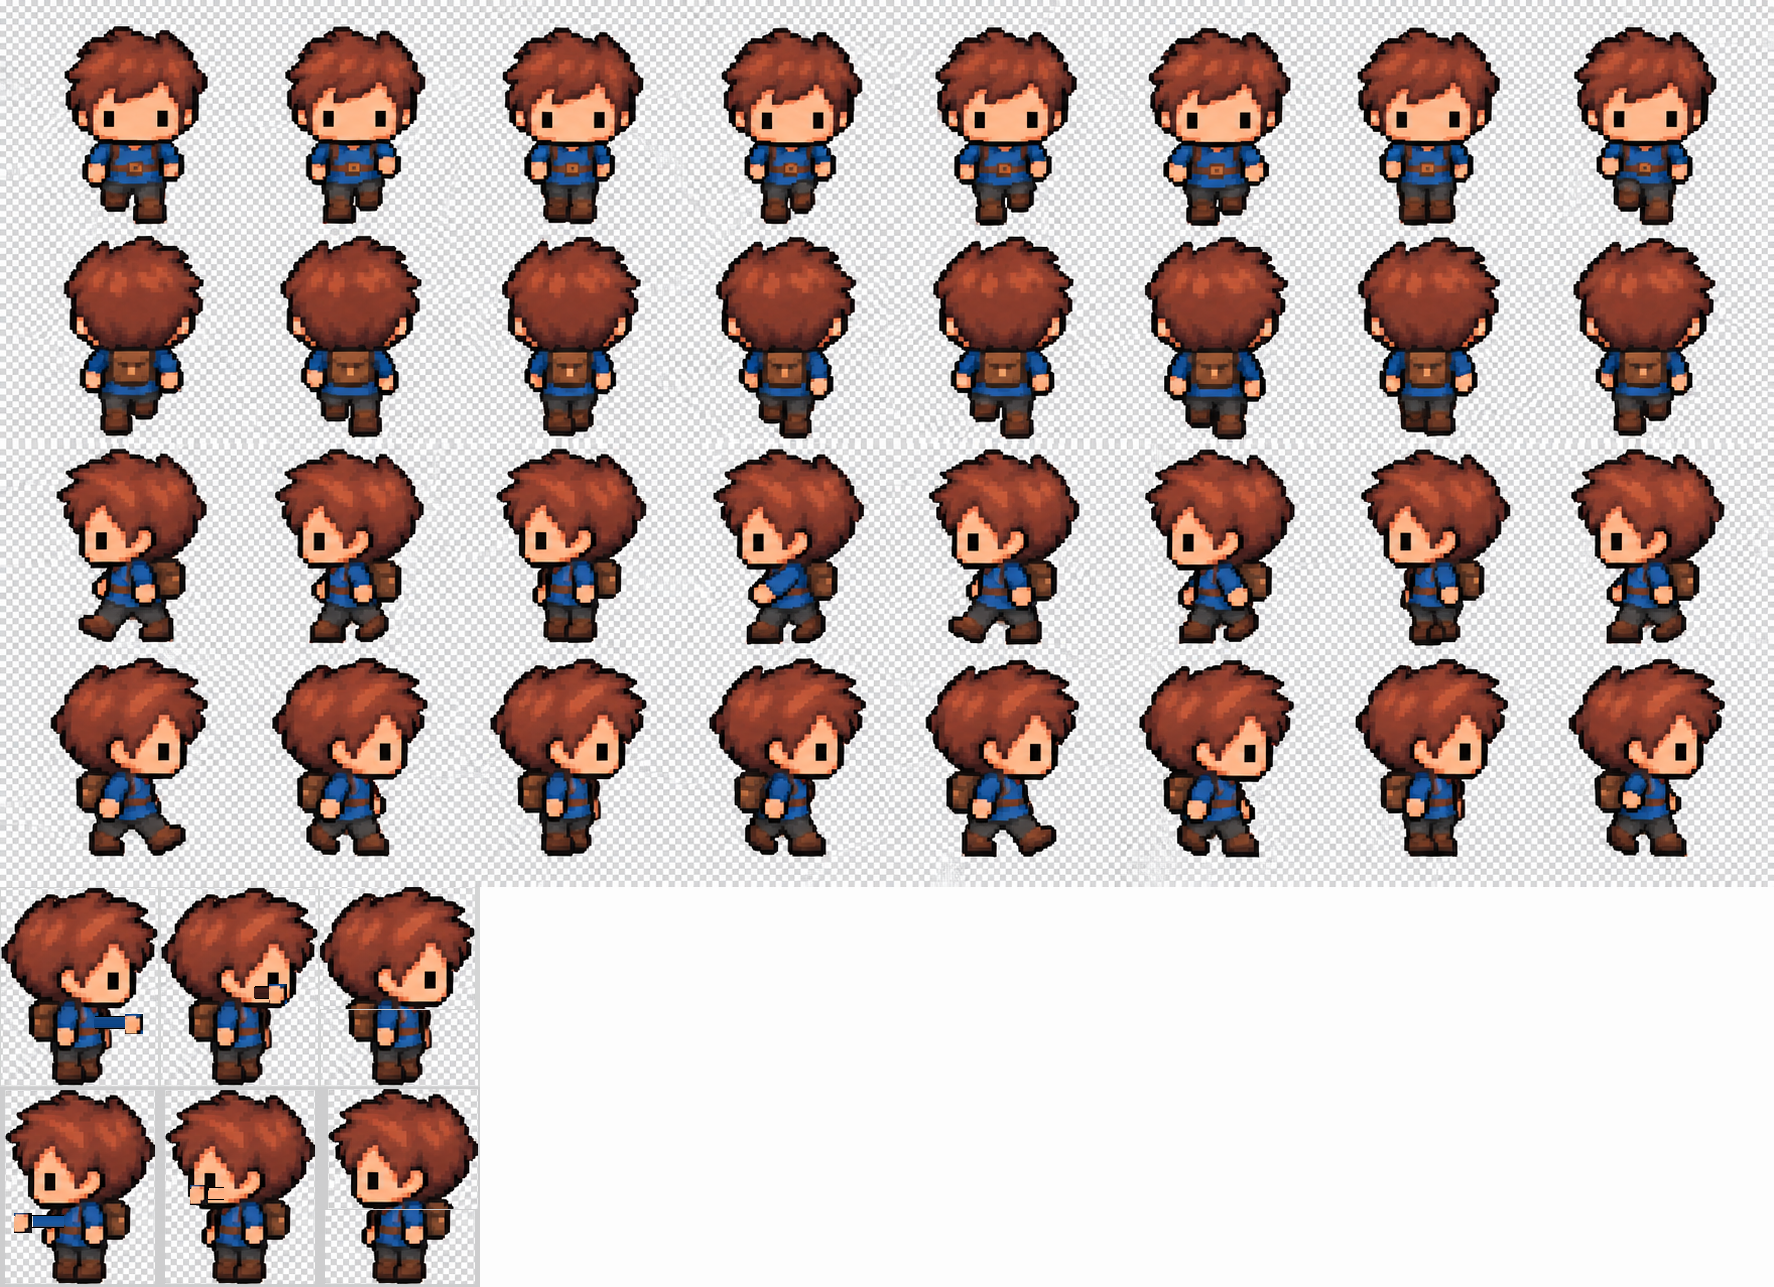
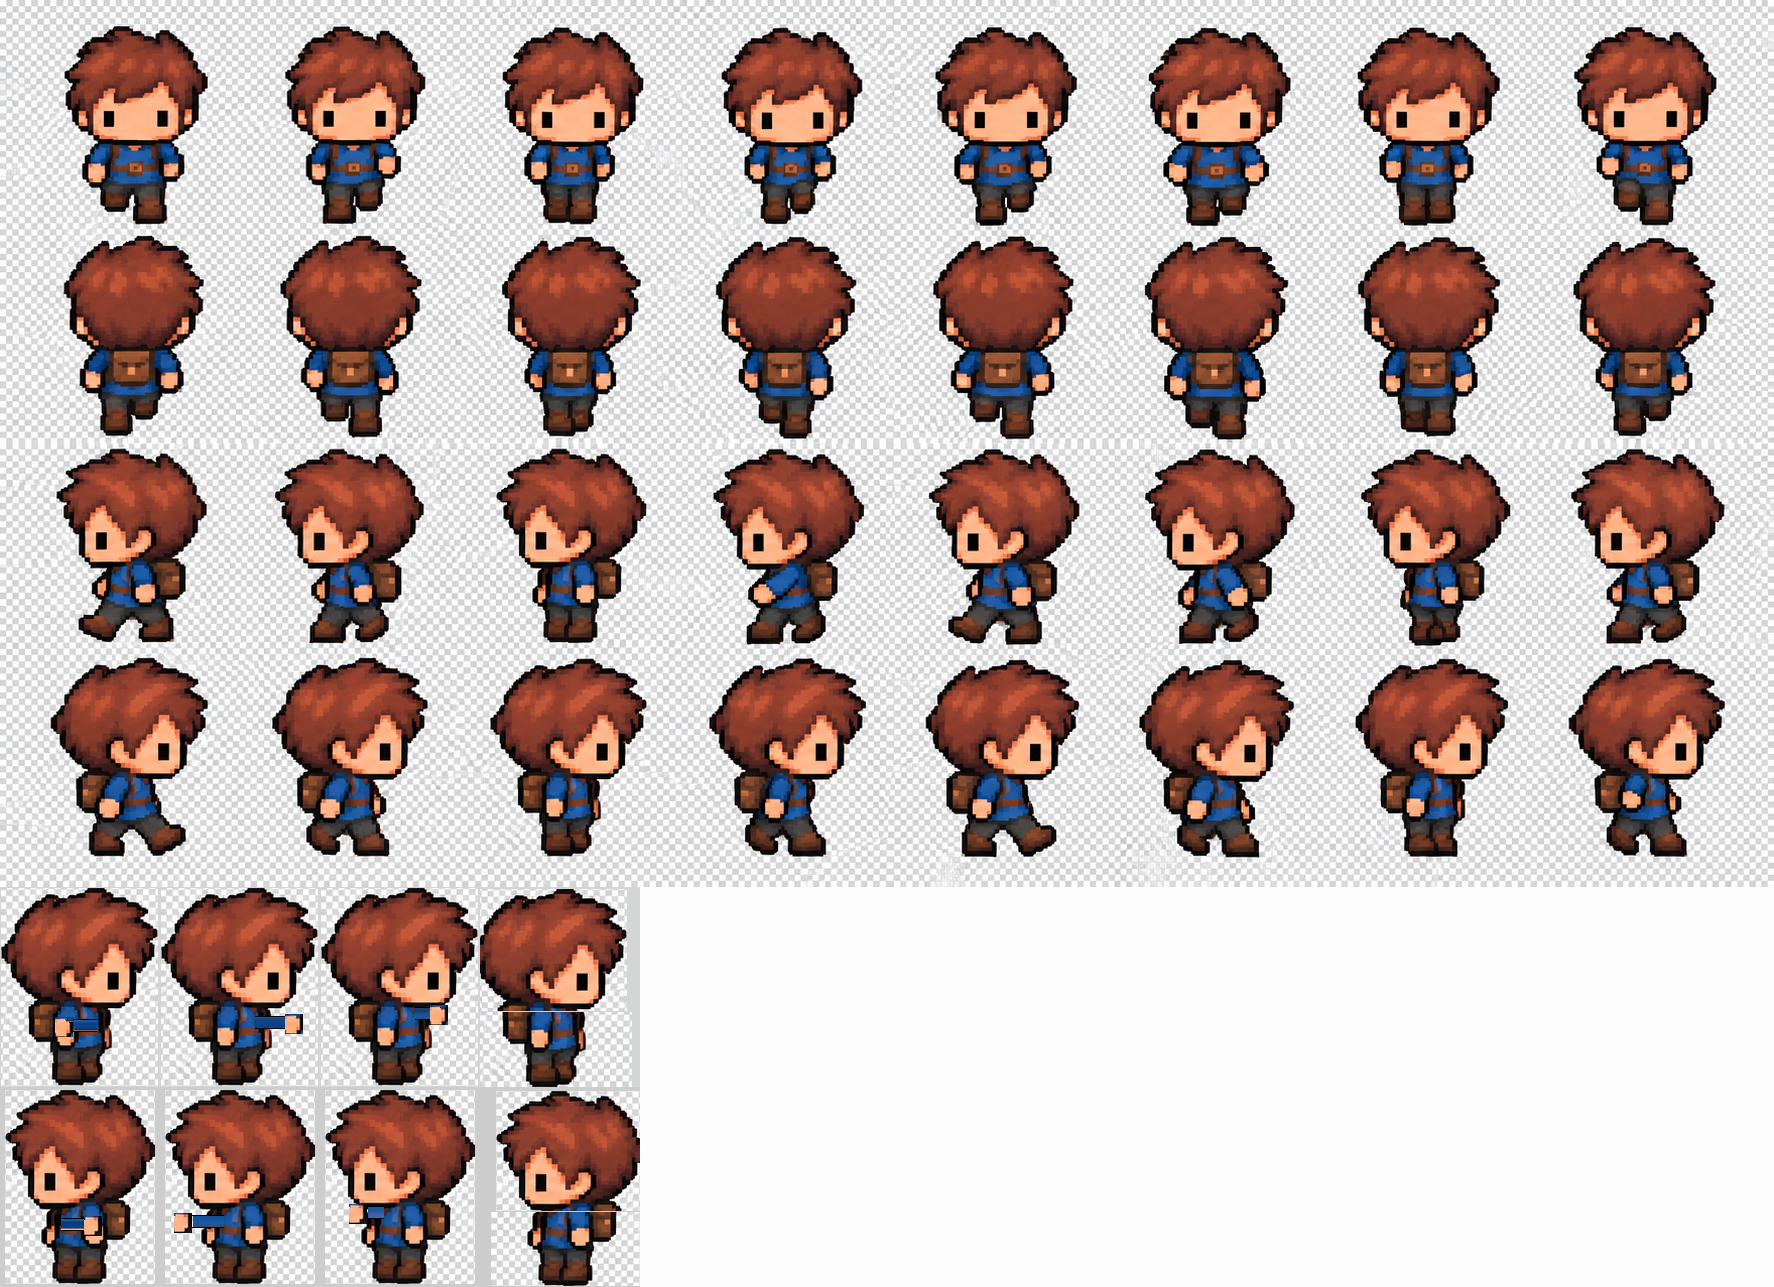
A second pass on the fight frames: the wind-up now has a drawing
Yannick played it and said the animations were very slight. He was right, and the
reason was structural: the wind-up had no drawn pose at all. Twenty-eight frames of
a blow arriving showed nothing but a lean, and the drawn frame only appeared on the
frame the blow landed - by which point there is nothing left to read.

  ready   the arm drawn back across the chest. New, and the one that was missing
  attack  the arm out, as before
  guard   short, forward, a little above the punch line
  hurt    the whole of him knocked back six and down two, head eleven further

WHAT TWO WASTED PASSES TAUGHT, written into the tool so nobody repeats them: his
hair takes the top three fifths of the frame. Anything drawn at head height is lost
behind it or smeared across his face - a guard under the chin put a dark blob over
his eye, and a fist cocked at shoulder height disappeared behind his own backpack.
The clear ground is the chest, so the three arms differ by how far they go and which
way, never by height. That note is in POUR_SLOSINIO too, because it will save his
brother the same discovery.

The flinch was invisible at playing size - it moved only the head three pixels. It
now moves all of him, and his head further than his feet, which is a body folding
round a blow rather than a man with a crooked neck.

Both full suites green on both worlds.

diff --git a/docs/POUR_SLOSINIO.md b/docs/POUR_SLOSINIO.md
@@ -239,8 +239,13 @@ Ce qu'on a fait, exactement :
   les tiennes, on supprime l'outil et le fichier, et un test nous force la main : il
   échoue dès que ta planche gagne une neuvième animation.
 
-C'est grossier. Un bras bleu tendu avec un poing au bout, un poing levé au menton, une
-tête qui recule. Ça se lit en jeu, et ce n'est pas mieux que ça.
+C'est grossier, et Yannick l'a dit après avoir joué. On a fait une deuxième passe : il y
+a maintenant **quatre** poses, parce que la préparation du coup n'en avait aucune — le
+bras se ramène, puis il part. Ça se lit en jeu. Ce n'est pas mieux que ça.
+
+Une chose qu'on a apprise en s'y cassant les dents, et qui te servira : **ta chevelure
+prend les trois cinquièmes du haut du sprite.** Tout bras dessiné à hauteur de tête s'y
+perd ou barbouille le visage. La seule bande dégagée est la poitrine.
 
 **Ce qui remplacerait ça, c'est trois images :**
 

diff --git a/CLAUDE.md b/CLAUDE.md
@@ -83,8 +83,10 @@ in pixels. (The HUD's font is the pack's, and an open question.)
 no attack and no guard — eight animations, idle and walk in four directions — so a fight
 showed three different actions as a person standing still. Yannick was told plainly that
 a second hand on his brother's character would show, and said to do it anyway. So
-`tools/draw_fight_frames.gd` builds six frames — attack, guard, flinch, left and right —
-and `view3d/fight/traveler_sheet.png` is the result.
+`tools/draw_fight_frames.gd` builds **eight** frames — a cocked arm, an attack, a guard
+and a flinch, left and right — and `view3d/fight/traveler_sheet.png` is the result. It
+was six until Yannick played it and said the animation was very slight: the wind-up had
+no drawing at all, which is the half of a blow a person reads.
 
 Three things keep it honest, and none of them makes it *not* an exception:
 
